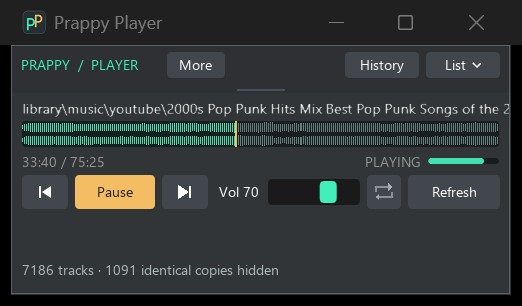
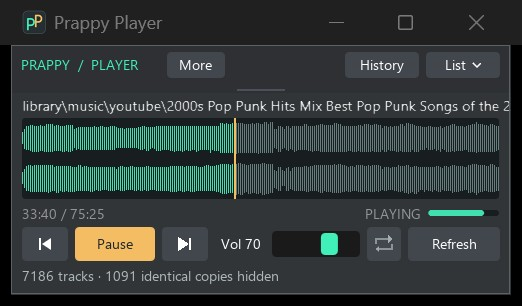
Tighten waveform heading gap and refresh README screenshots

diff --git a/apps/prappy-player/src/player_ui.cpp b/apps/prappy-player/src/player_ui.cpp
@@ -874,7 +874,7 @@ int runPlayer(HINSTANCE instance) {
             }
             auto draw = ImGui::GetWindowDrawList();
             draw->AddRectFilled({0, transportY}, {static_cast<float>(width), static_cast<float>(height)}, IM_COL32(49, 53, 56, 255));
-            ImGui::SetCursorPos({u(8), transportY + u(4)});
+            ImGui::SetCursorPos({u(8), transportY + u(2)});
             filenameText(audio.current.empty() ? "Choose a track from List" : library.pathLabel(audio.current));
             uiProbe.observe("audio-info", false);
             if (!audio.current.empty()) rememberControl();
